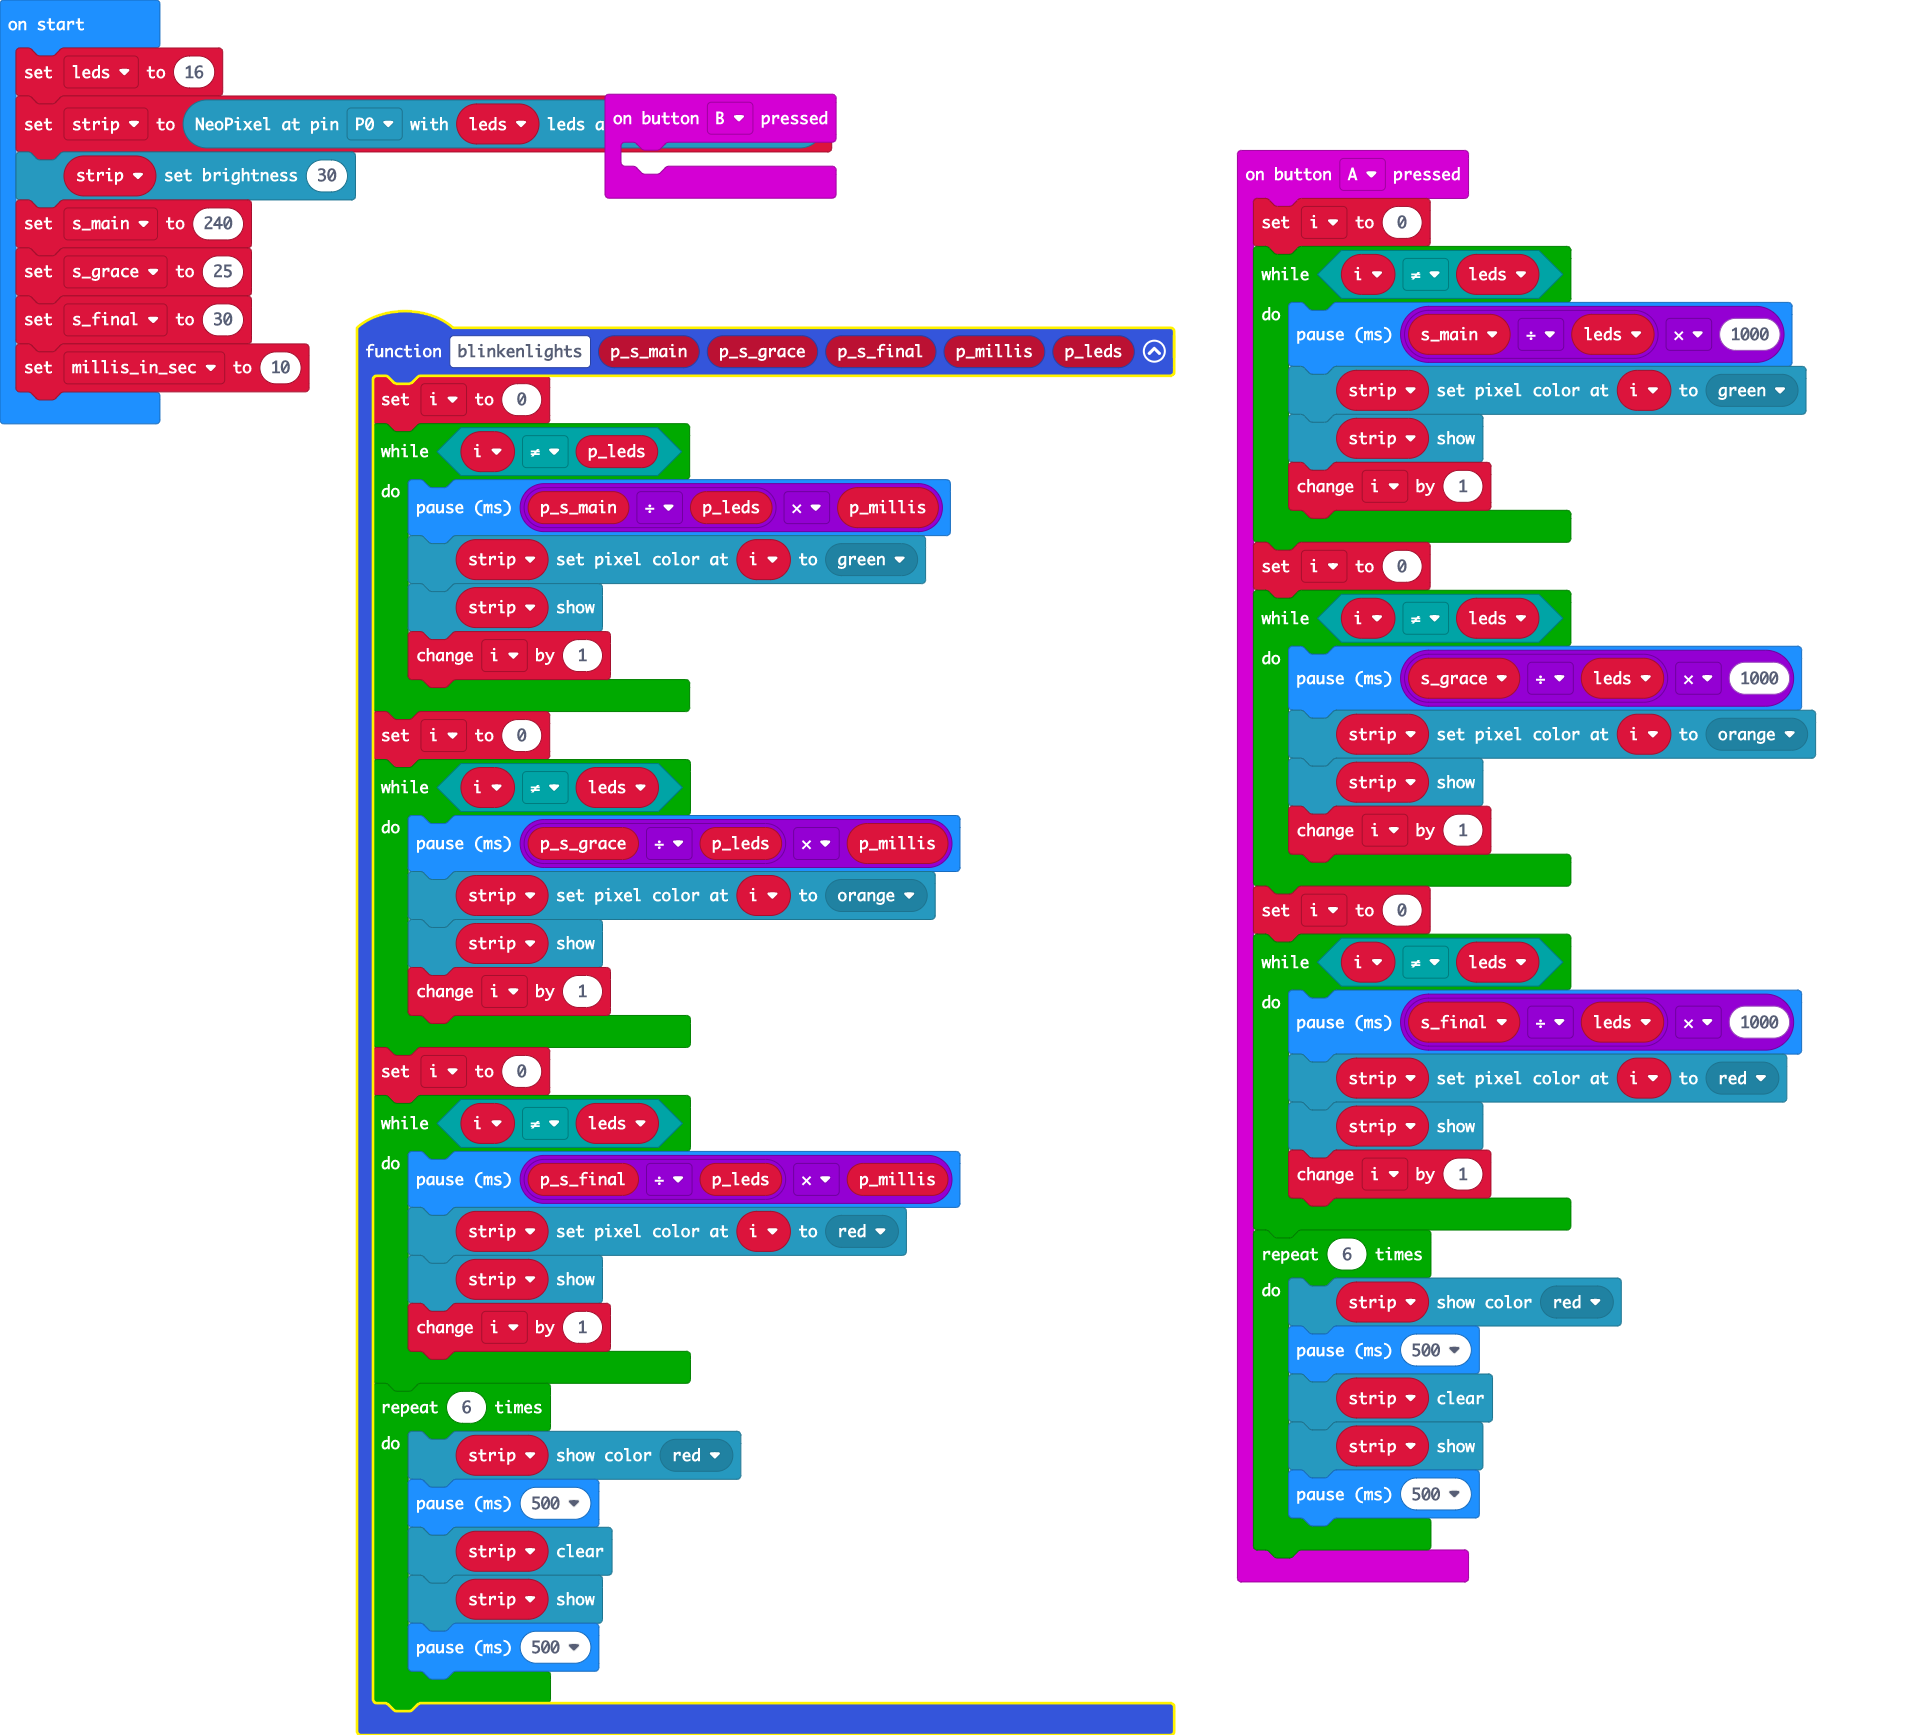
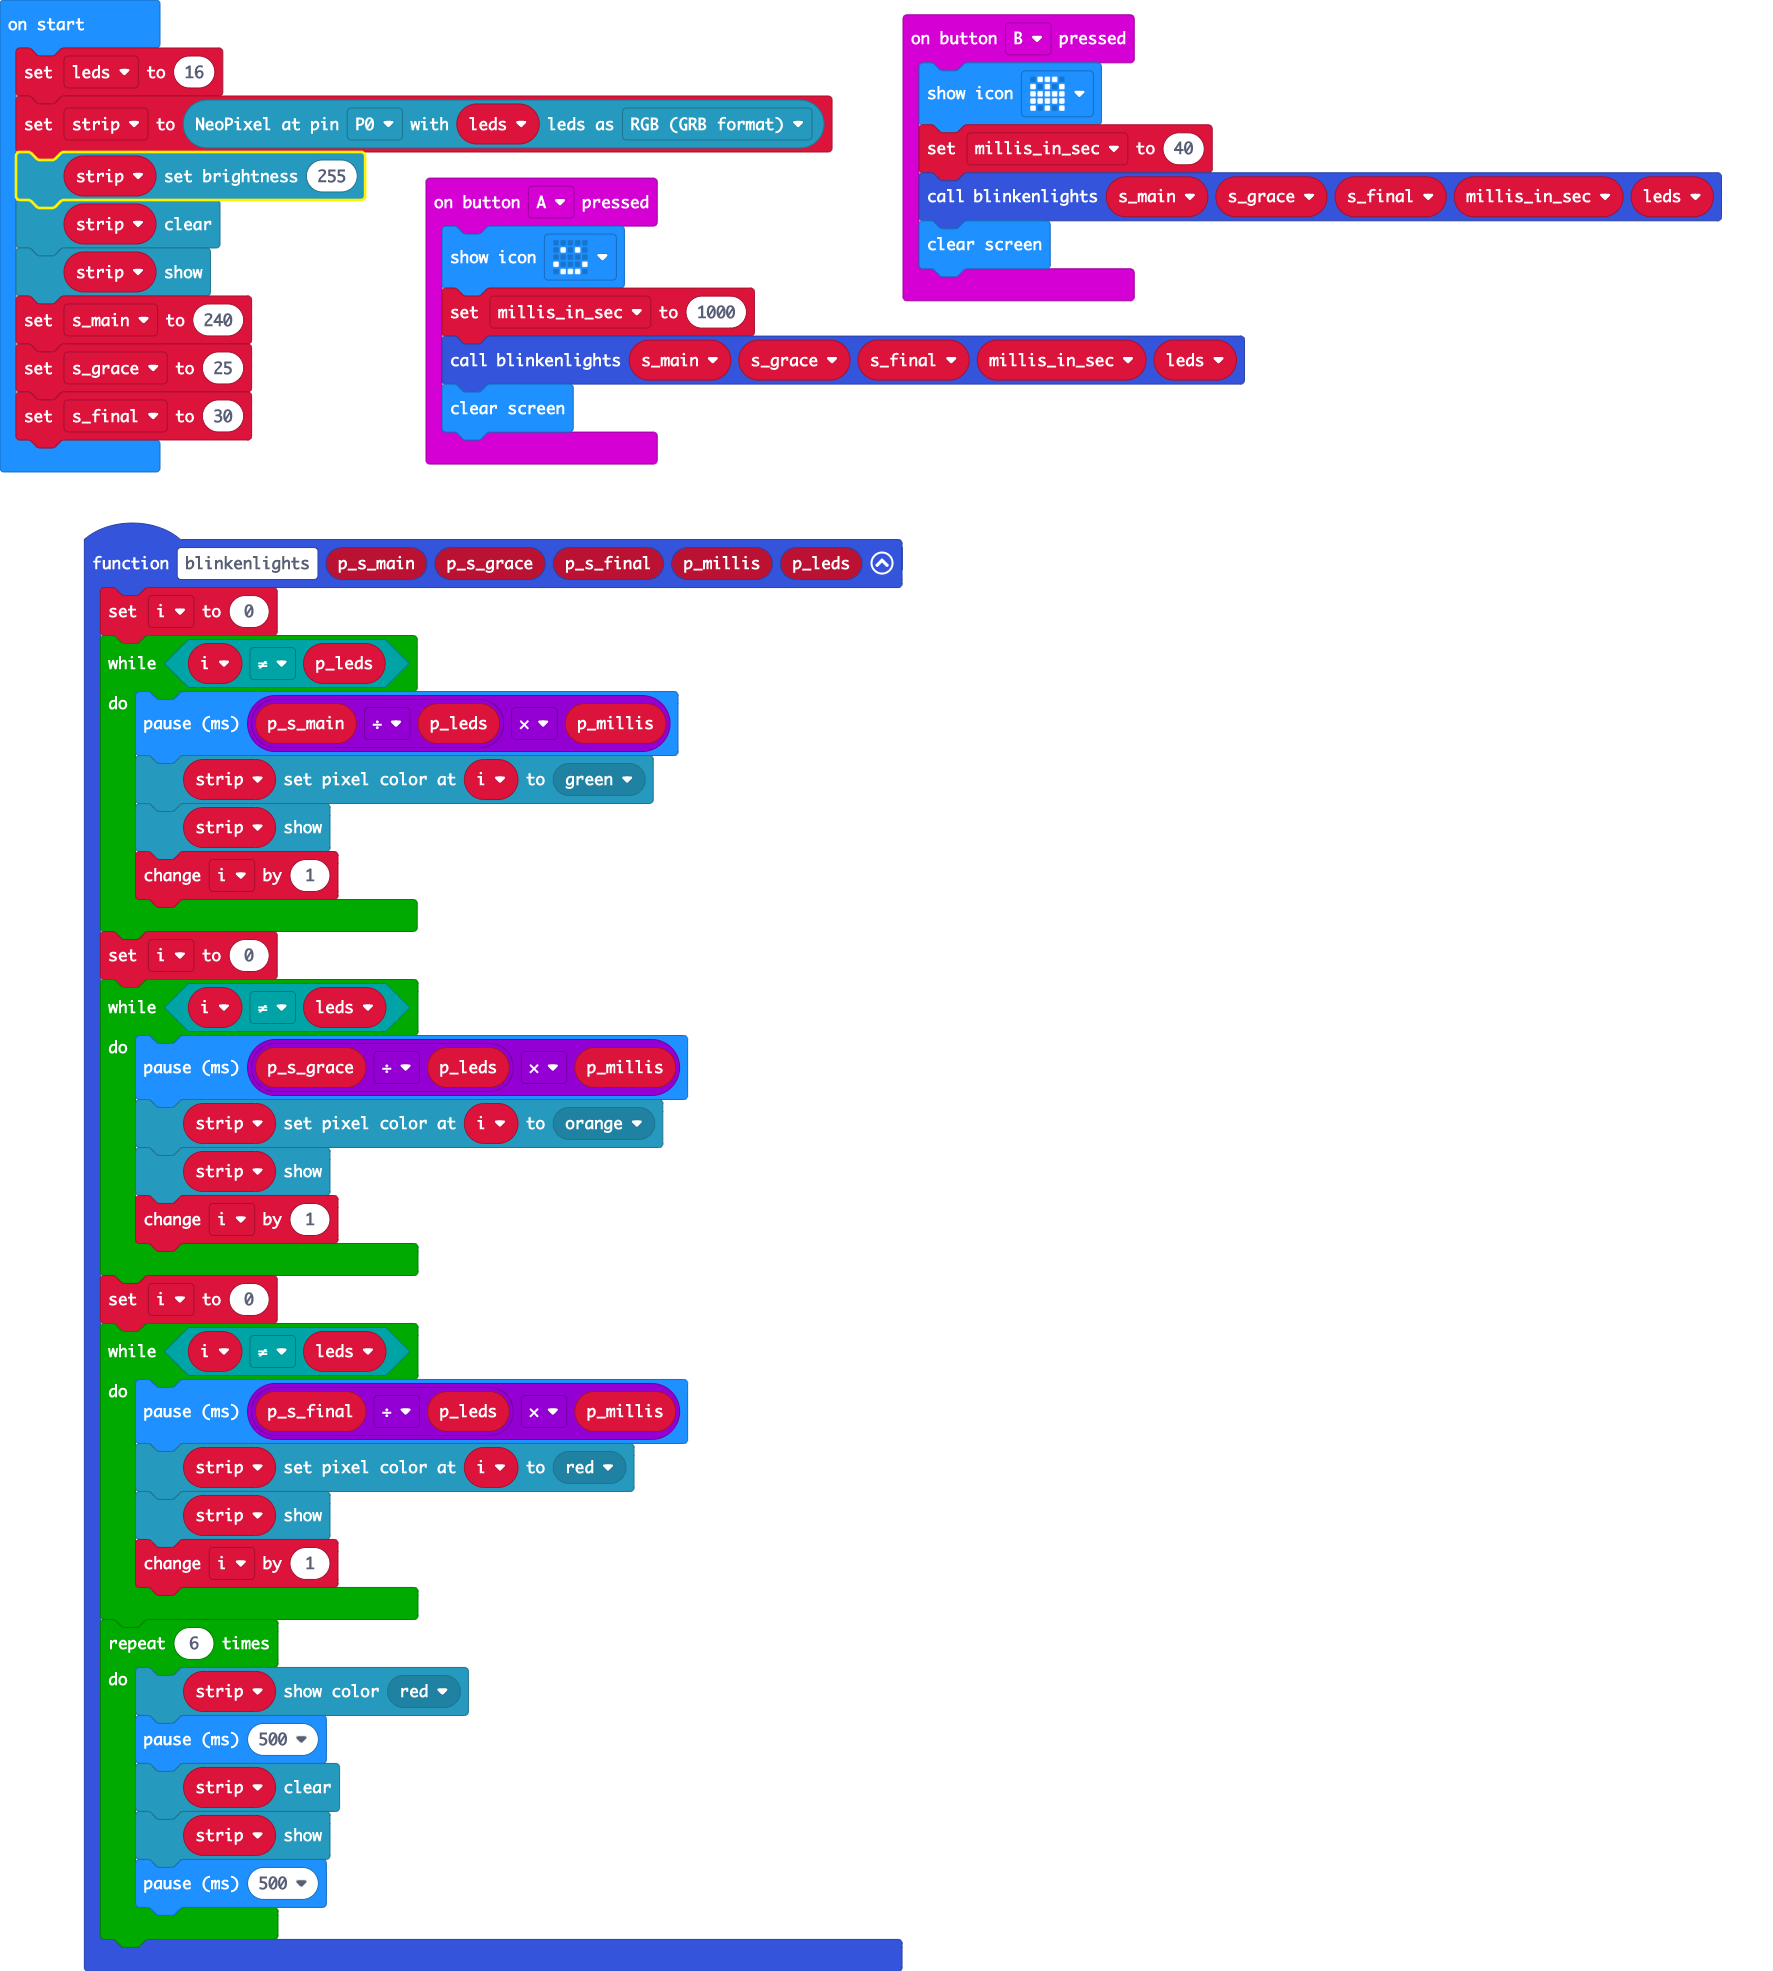
simplified

diff --git a/main.ts b/main.ts
@@ -29,38 +29,18 @@ function blinkenlights (p_s_main: number, p_s_grace: number, p_s_final: number, 
     }
 }
 input.onButtonPressed(Button.A, function () {
-    i = 0
-    while (i != leds) {
-        basic.pause(s_main / leds * 1000)
-        strip.setPixelColor(i, neopixel.colors(NeoPixelColors.Green))
-        strip.show()
-        i += 1
-    }
-    i = 0
-    while (i != leds) {
-        basic.pause(s_grace / leds * 1000)
-        strip.setPixelColor(i, neopixel.colors(NeoPixelColors.Orange))
-        strip.show()
-        i += 1
-    }
-    i = 0
-    while (i != leds) {
-        basic.pause(s_final / leds * 1000)
-        strip.setPixelColor(i, neopixel.colors(NeoPixelColors.Red))
-        strip.show()
-        i += 1
-    }
-    for (let index = 0; index < 6; index++) {
-        strip.showColor(neopixel.colors(NeoPixelColors.Red))
-        basic.pause(500)
-        strip.clear()
-        strip.show()
-        basic.pause(500)
-    }
+    basic.showIcon(IconNames.Happy)
+    millis_in_sec = 1000
+    blinkenlights(s_main, s_grace, s_final, millis_in_sec, leds)
+    basic.clearScreen()
 })
 input.onButtonPressed(Button.B, function () {
-	
+    basic.showIcon(IconNames.Ghost)
+    millis_in_sec = 40
+    blinkenlights(s_main, s_grace, s_final, millis_in_sec, leds)
+    basic.clearScreen()
 })
+let millis_in_sec = 0
 let i = 0
 let s_final = 0
 let s_grace = 0
@@ -69,8 +49,9 @@ let strip: neopixel.Strip = null
 let leds = 0
 leds = 16
 strip = neopixel.create(DigitalPin.P0, leds, NeoPixelMode.RGB)
-strip.setBrightness(30)
+strip.setBrightness(255)
+strip.clear()
+strip.show()
 s_main = 240
 s_grace = 25
 s_final = 30
-let millis_in_sec = 10
